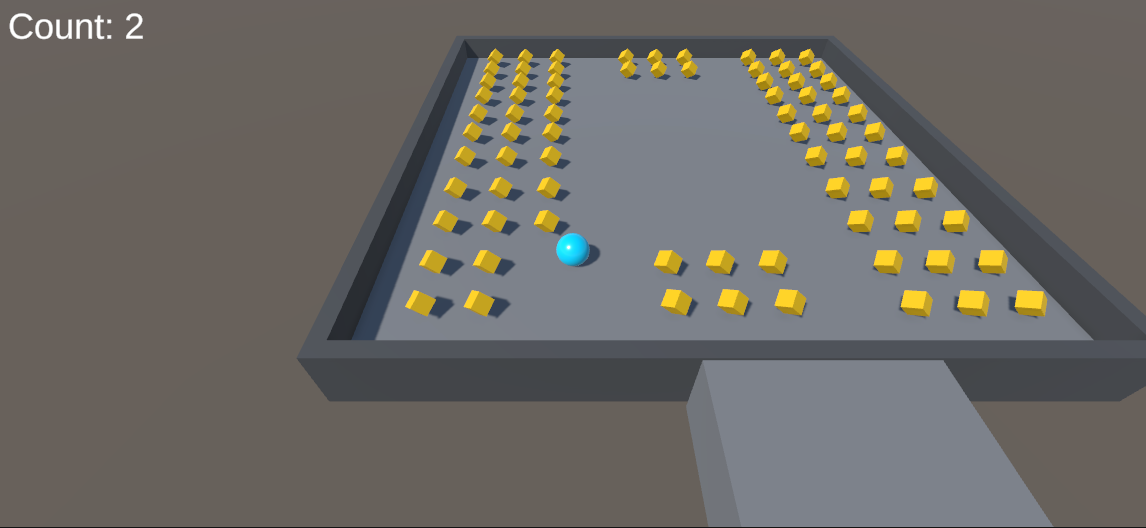
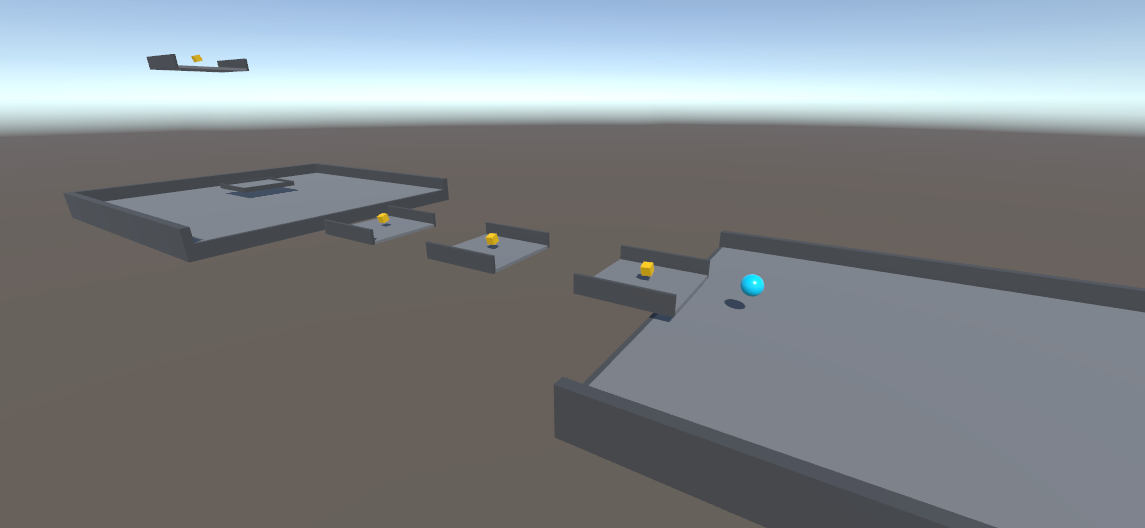
Roll-a-Ball Blog Update

diff --git a/Blogs/Roll-A-Ball/Roll-A-Ball-Blog.md b/Blogs/Roll-A-Ball/Roll-A-Ball-Blog.md
@@ -60,5 +60,11 @@ if (count >= pickupParent.transform.childCount)
 ```
 And just like that, I have a dynamic win condition that is synced to the total amount of PickUps.
 
+### Additional Changes
+After the initial write-up of this blog, I have added additional features to the game.
+1. Better jump collision detection: I added a small Collider under the ball with IsTrigger set to true. This trigger now sets the canJump value, which fixes the issue where touching walls granted infinite jumps.
+2. An Elevator: Activated when the player jumps on top of it
+3. Updated Level: The level now features a few jumps
+
 ## The Result
 ![Roll a Ball preview](media/roll-a-ball-preview.png)
